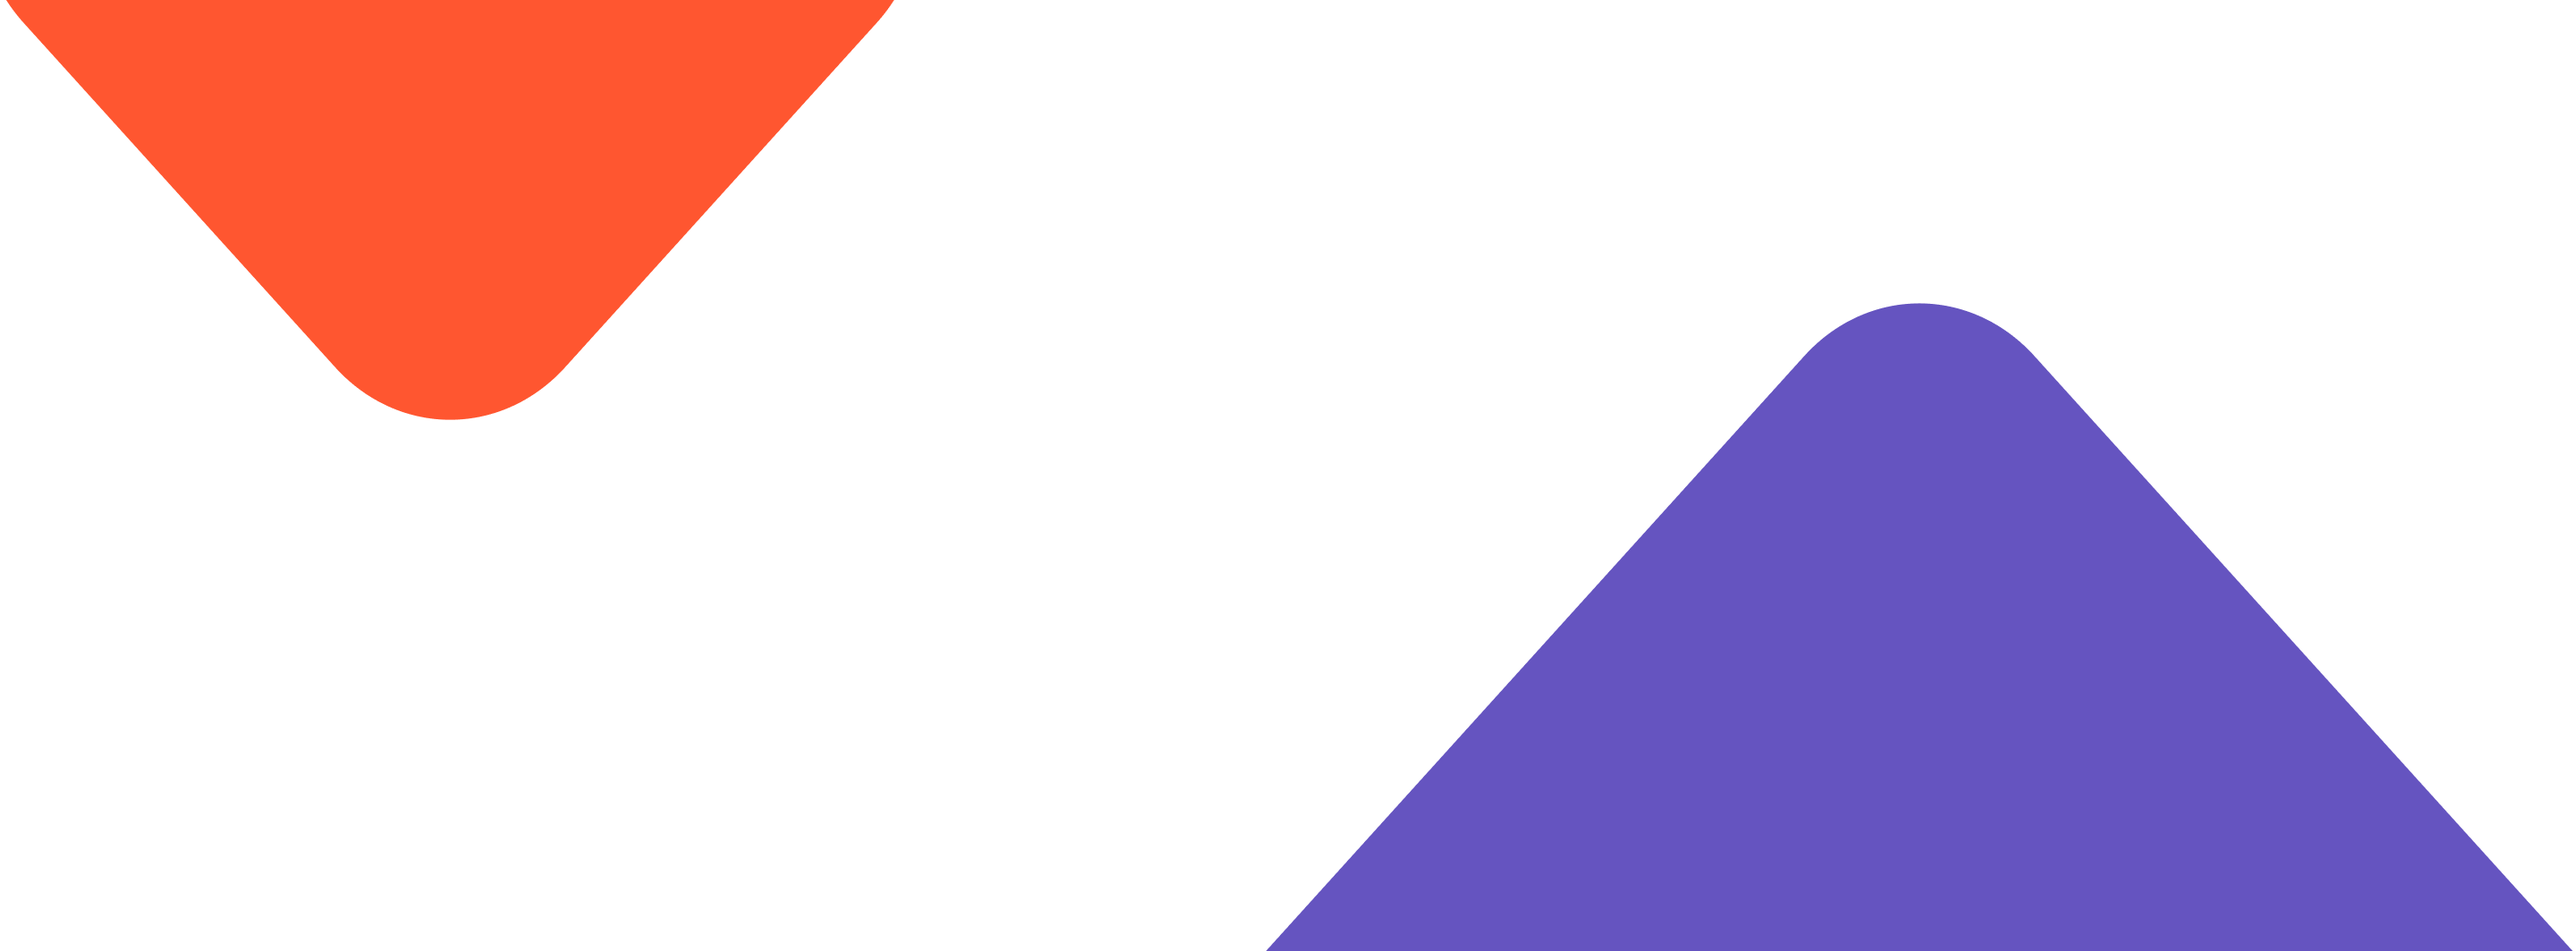
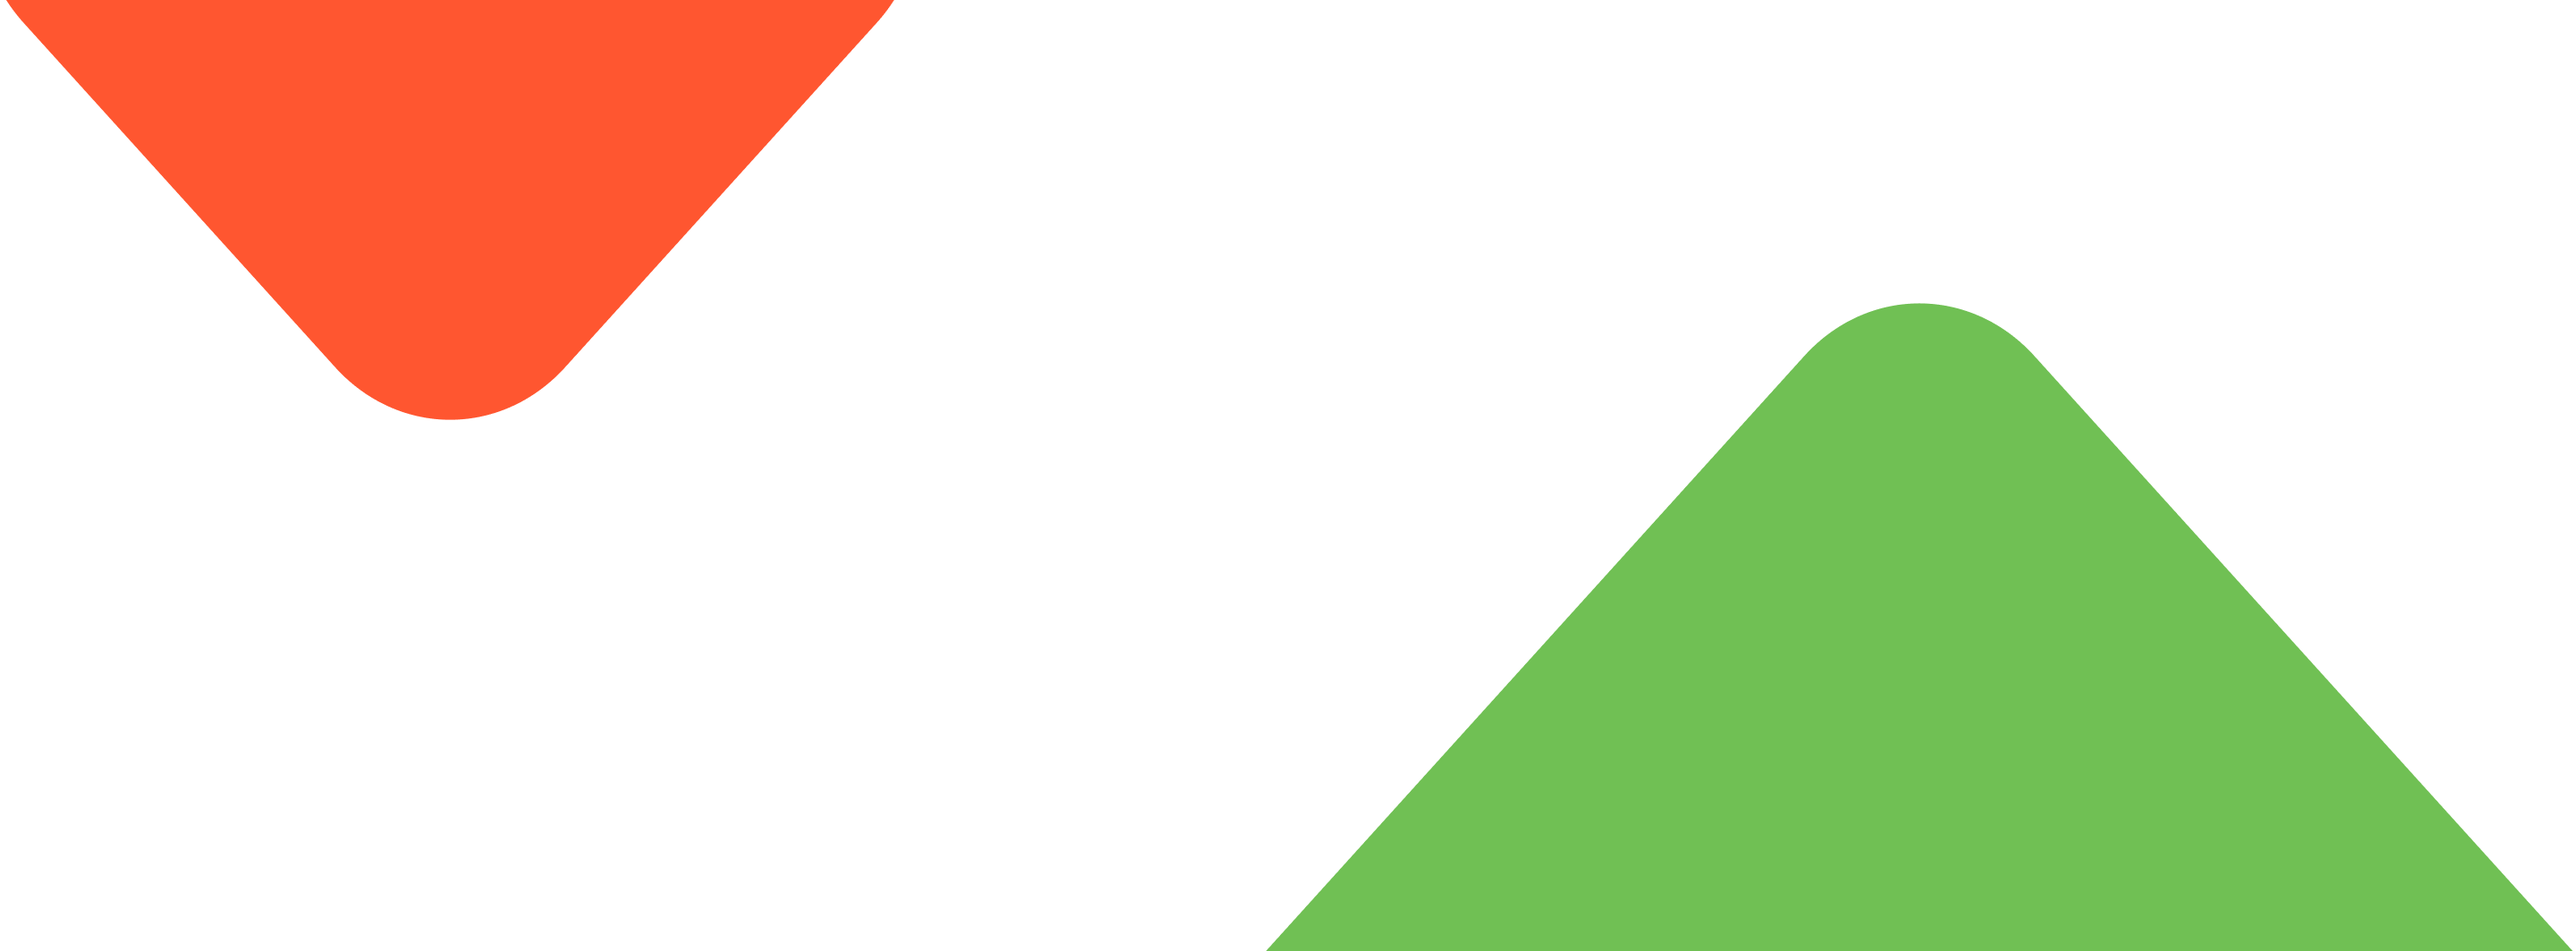
Colours

Changed region(s): [[0.4688, 0.3102, 1.0, 1.0]]

diff --git a/src/theme.css b/src/theme.css
@@ -3,7 +3,7 @@
   --base:#0B132B;  
   --base-light:rgba(11, 19, 43, 0.05);
   --primary:#FF5630;
-  --secondary:#6554C0;
+  --secondary:#70C054;
   --surface:#fff;
   
   --text-high:var(--base);
